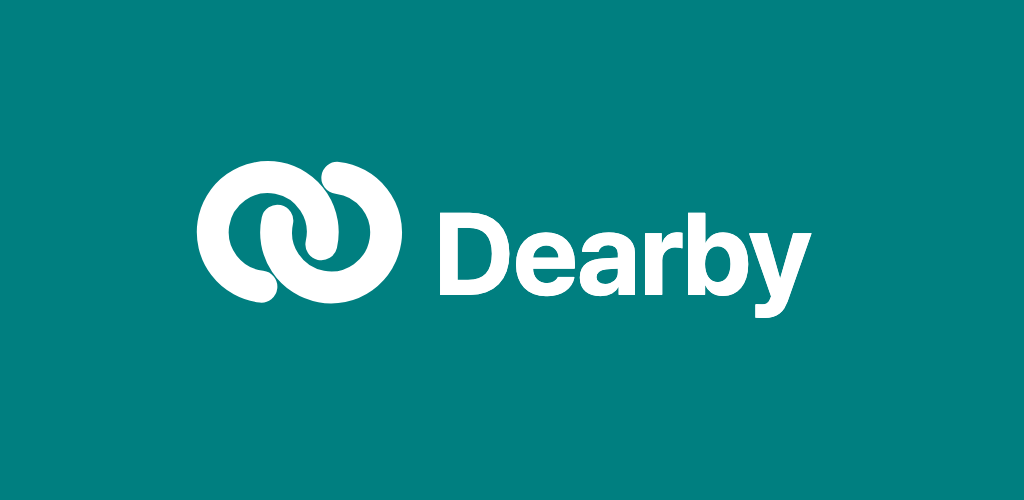
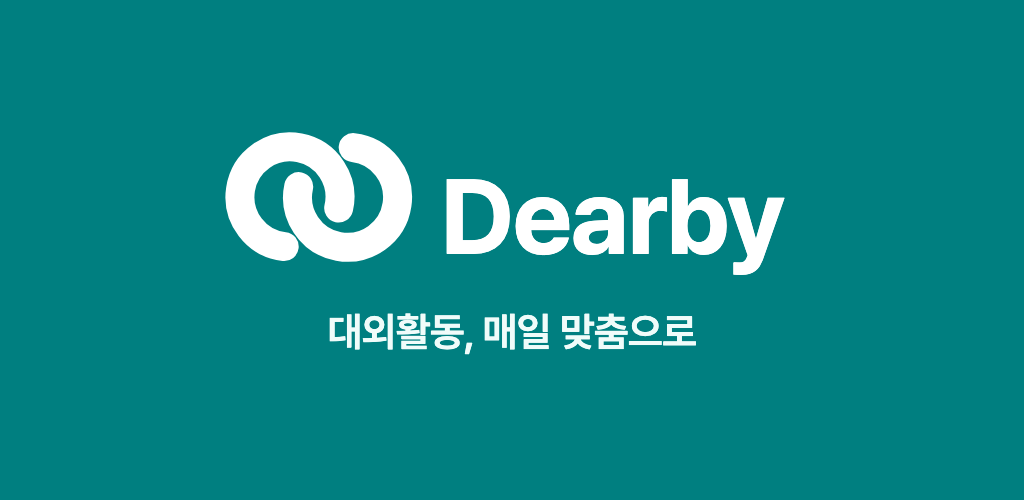
feat(store): Play 그래픽 이미지에 한 줄 문구 '대외활동, 매일 맞춤으로'
Claude-Session: https://claude.ai/code/session_01YYywA6WfJBBvKb9Kjj7SzQ

Changed region(s): [[0.1875, 0.27, 0.8125, 0.72]]

diff --git a/shared/assets/brand/play-feature-graphic.html b/shared/assets/brand/play-feature-graphic.html
@@ -1,16 +1,20 @@
 <!doctype html><html><head><meta charset="utf-8"><style>
 @font-face{font-family:P;src:url(../fonts/pretendard/Pretendard-Bold.otf);font-weight:700}
+@font-face{font-family:PS;src:url(../fonts/pretendard/Pretendard-SemiBold.otf);font-weight:600}
 html,body{margin:0;width:1024px;height:500px;overflow:hidden;background:#007F80}
 svg{display:block}
 </style></head><body>
 <svg xmlns="http://www.w3.org/2000/svg" width="1024" height="500" viewBox="0 0 1024 500">
 <rect width="1024" height="500" fill="#007F80"/>
-<!-- Play 그래픽 이미지(1024×500): 청록 바탕에 흰 워드마크를 가운데. 헤드리스 Chrome으로 그린다(README "다시 뽑을 때"). 글꼴은 ../fonts/pretendard/Pretendard-Bold.otf. -->
-<g id="lockup" transform="translate(150 162) scale(0.55)">
+<!-- Play 그래픽 이미지(1024×500): 청록 바탕에 흰 워드마크와 한 줄 문구를 가운데. 헤드리스 Chrome으로 그린다(README "다시 뽑을 때"). -->
+<g id="all">
+<g id="lockup" transform="scale(0.5)">
  <g transform="translate(0 -96)" fill="none" stroke="#FFFFFF" stroke-width="58" stroke-linecap="round">
   <path d="M187 355 A100 100 0 1 1 296 278"/><path d="M325 157 A100 100 0 1 1 216 235"/>
  </g>
  <text x="500" y="274" font-size="210" fill="#FFFFFF" letter-spacing="-4" style="font-family:P;font-weight:700">Dearby</text>
+</g>
+<text id="tag" font-size="40" fill="#F0FCFA" text-anchor="middle" letter-spacing="-0.5" style="font-family:PS;font-weight:600">대외활동, 매일 맞춤으로</text>
 </g></svg>
-<script>document.fonts.ready.then(()=>{const b=document.getElementById('lockup').getBBox();const s=0.55,w=b.width*s,h=b.height*s;document.getElementById('lockup').setAttribute('transform',`translate(${(1024-w)/2-b.x*s} ${(500-h)/2-b.y*s}) scale(${s})`)})</script>
+<script>document.fonts.ready.then(()=>{const L=document.getElementById('lockup'),T=document.getElementById('tag');const b=L.getBBox(),s=0.5,w=b.width*s,h=b.height*s,gap=34,th=40;const top=(500-(h+gap+th))/2;L.setAttribute('transform',`translate(${(1024-w)/2-b.x*s} ${top-b.y*s}) scale(${s})`);T.setAttribute('x',512);T.setAttribute('y',top+h+gap+th*0.82)})</script>
 </body></html>
